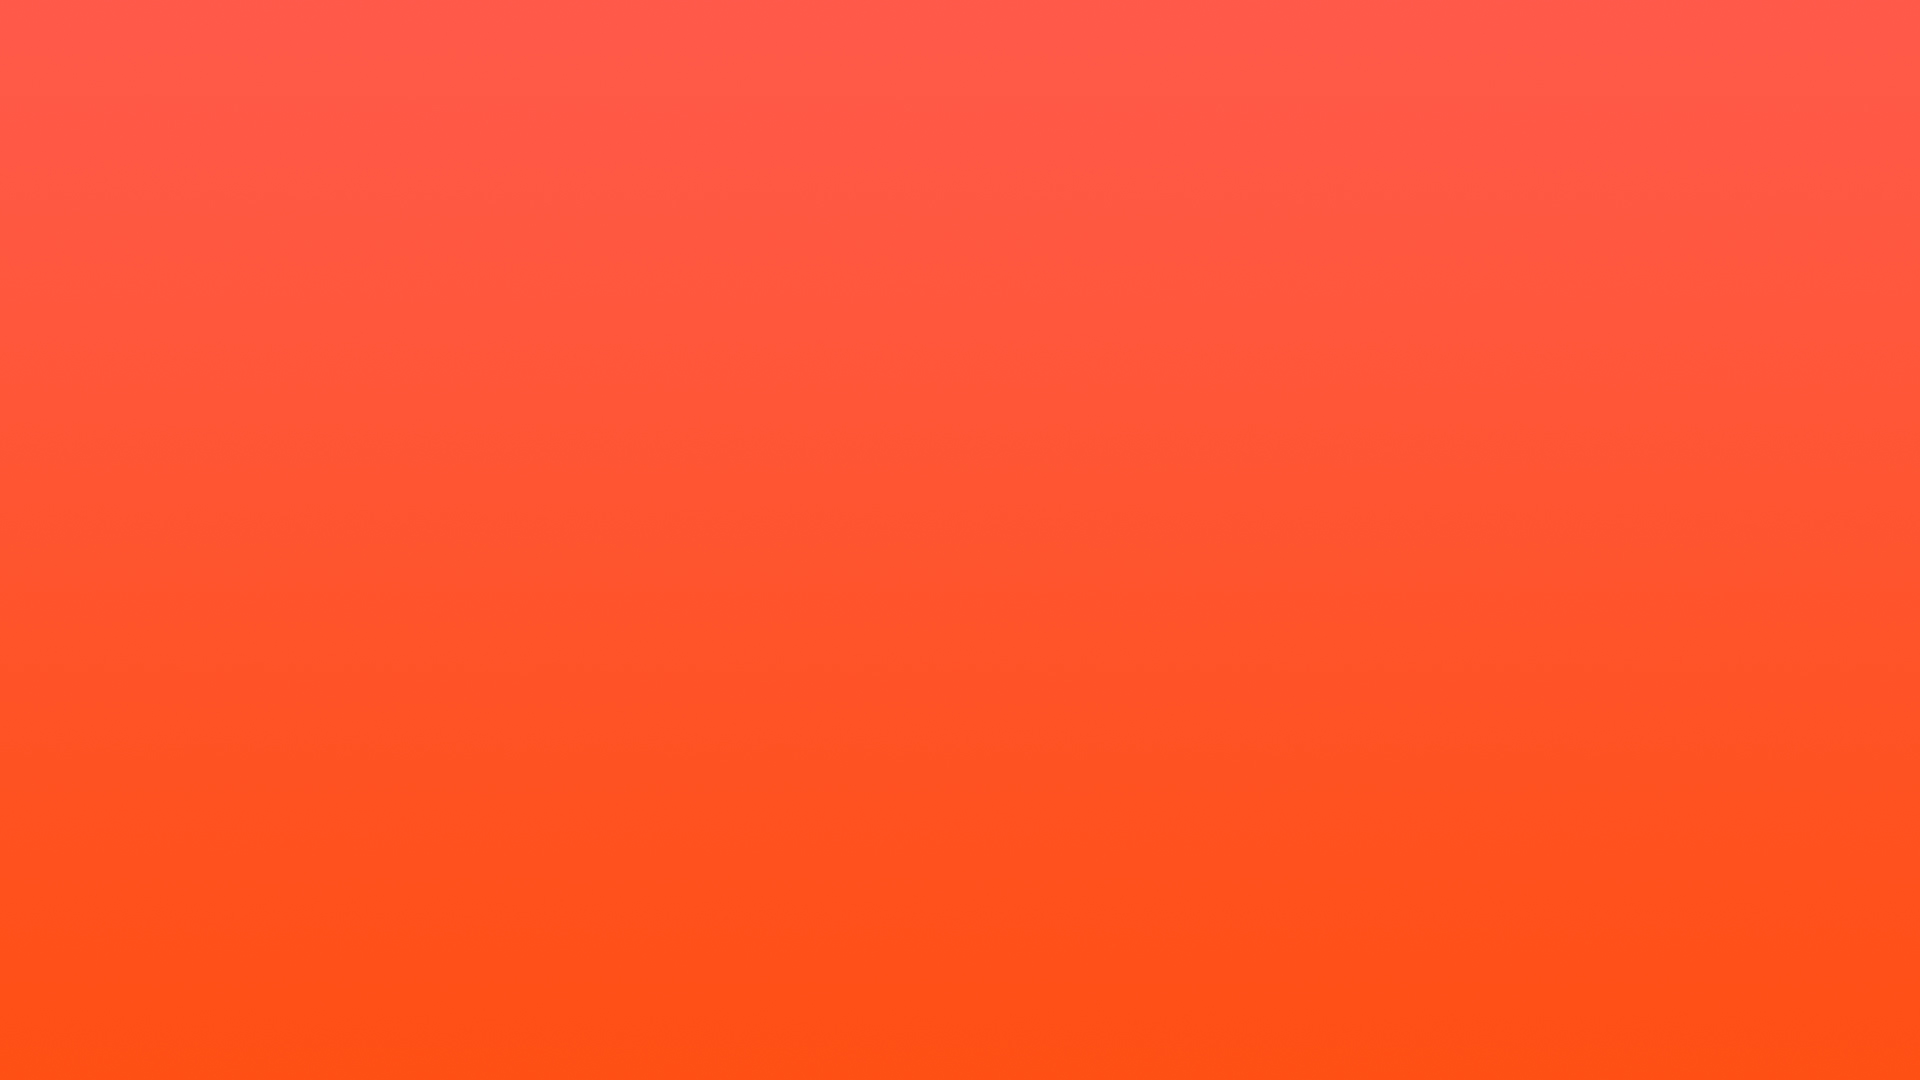
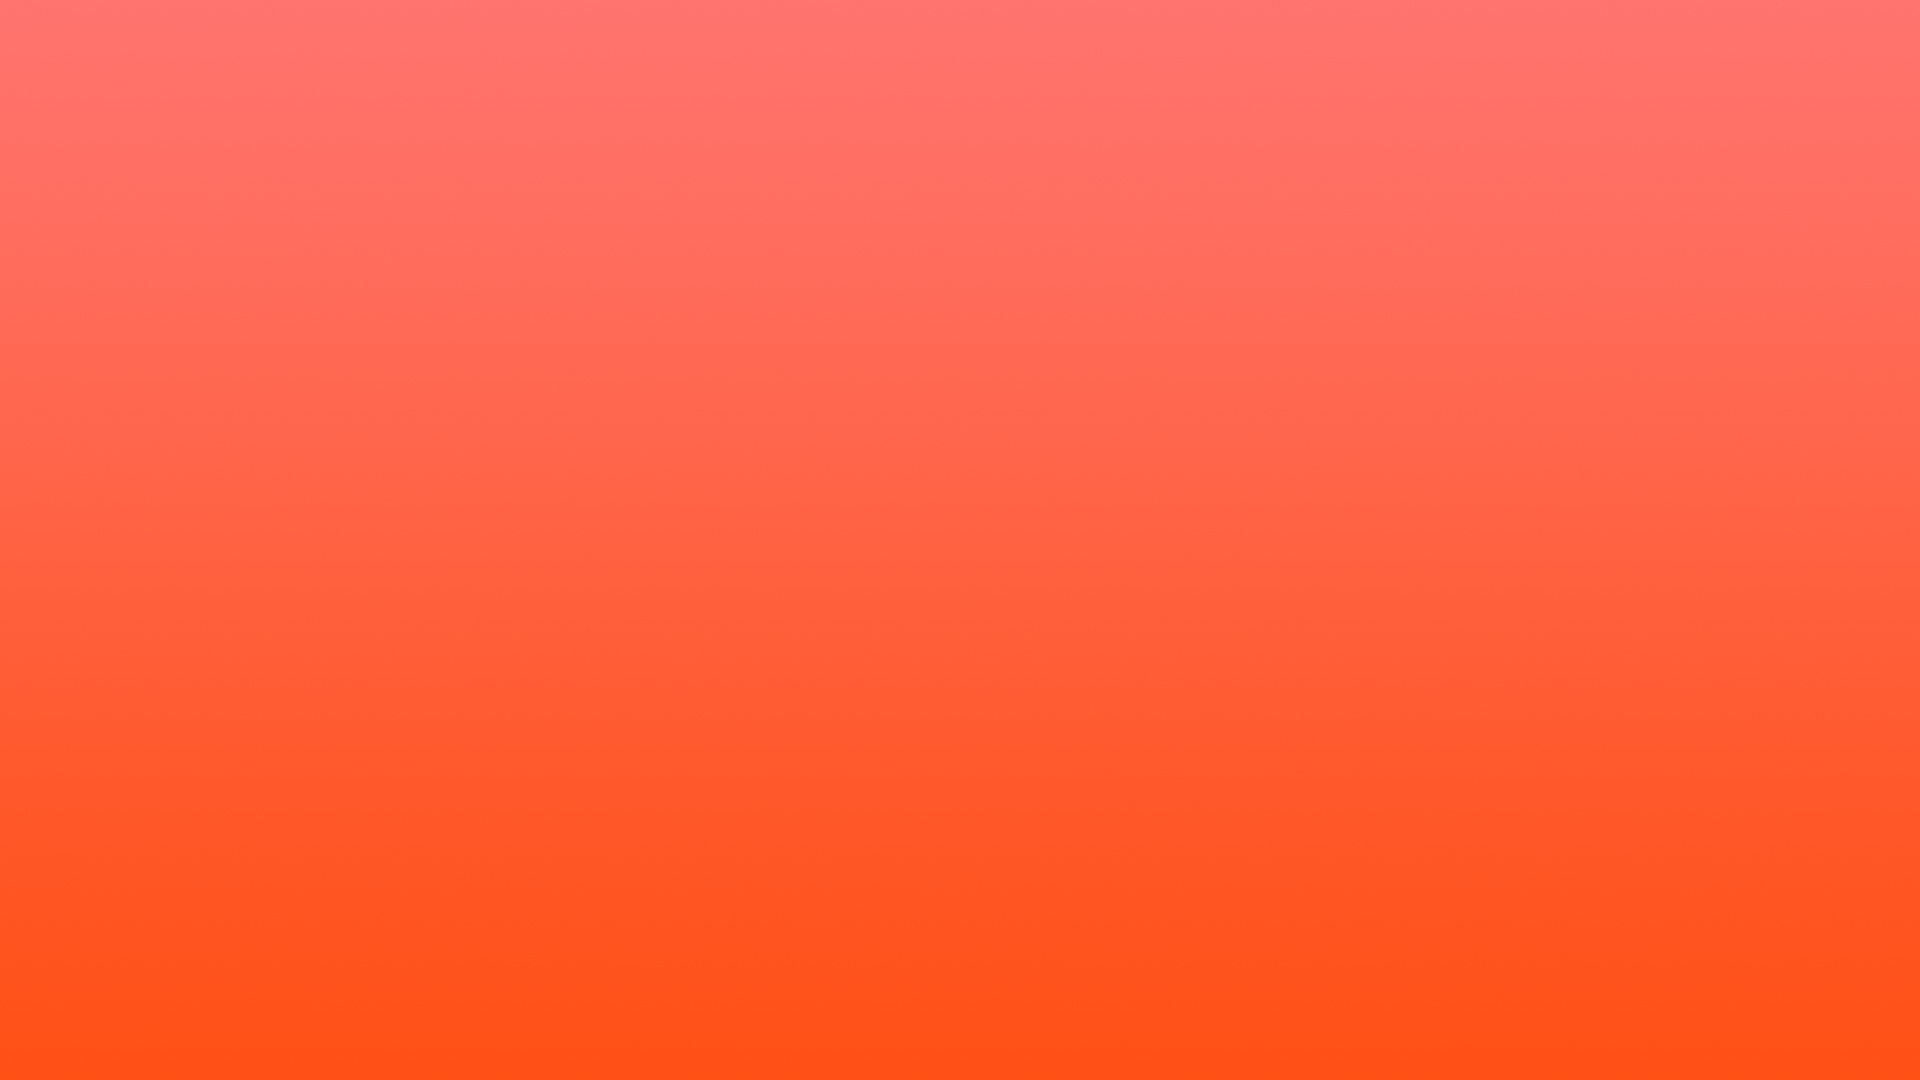
Updated Orange background!

diff --git a/EMSFireTrainer/Assets/Resources/Scripts/Menu/Main/BuildMenu.cs b/EMSFireTrainer/Assets/Resources/Scripts/Menu/Main/BuildMenu.cs
@@ -253,8 +253,8 @@ public class BuildMenu : MonoBehaviour {
 		playButtonText.pixelOffset = new Vector2 (50,-415);
 		smokeButtonText.pixelOffset = new Vector2 (50,-485);
 		productName.pixelOffset = new Vector2 (Screen.width - 250,-50);
-		companyName.pixelOffset = new Vector2 (Screen.width - 250,-75);
-		companyTexture.pixelInset = new Rect(Screen.width - 300,Screen.height - 93,36,36);
+		companyName.pixelOffset = new Vector2 (Screen.width - 250,-70);
+		companyTexture.pixelInset = new Rect(Screen.width - 300,Screen.height - 90,36,36);
 
 		//scale
 		companylogo.transform.localScale = new Vector3(0,0,1);
@@ -382,7 +382,7 @@ public class BuildMenu : MonoBehaviour {
 		//position
 		homeButton.transform.position = new Vector3(0,0,0);
 		
-		homeTexture.pixelInset = new Rect( 50,Screen.height - 36 - 50,19,36);
+		homeTexture.pixelInset = new Rect(50,Screen.height - 36 - 50,19,36);
 		
 		//scale
 		homeButton.transform.localScale = new Vector3(0,0,1);
